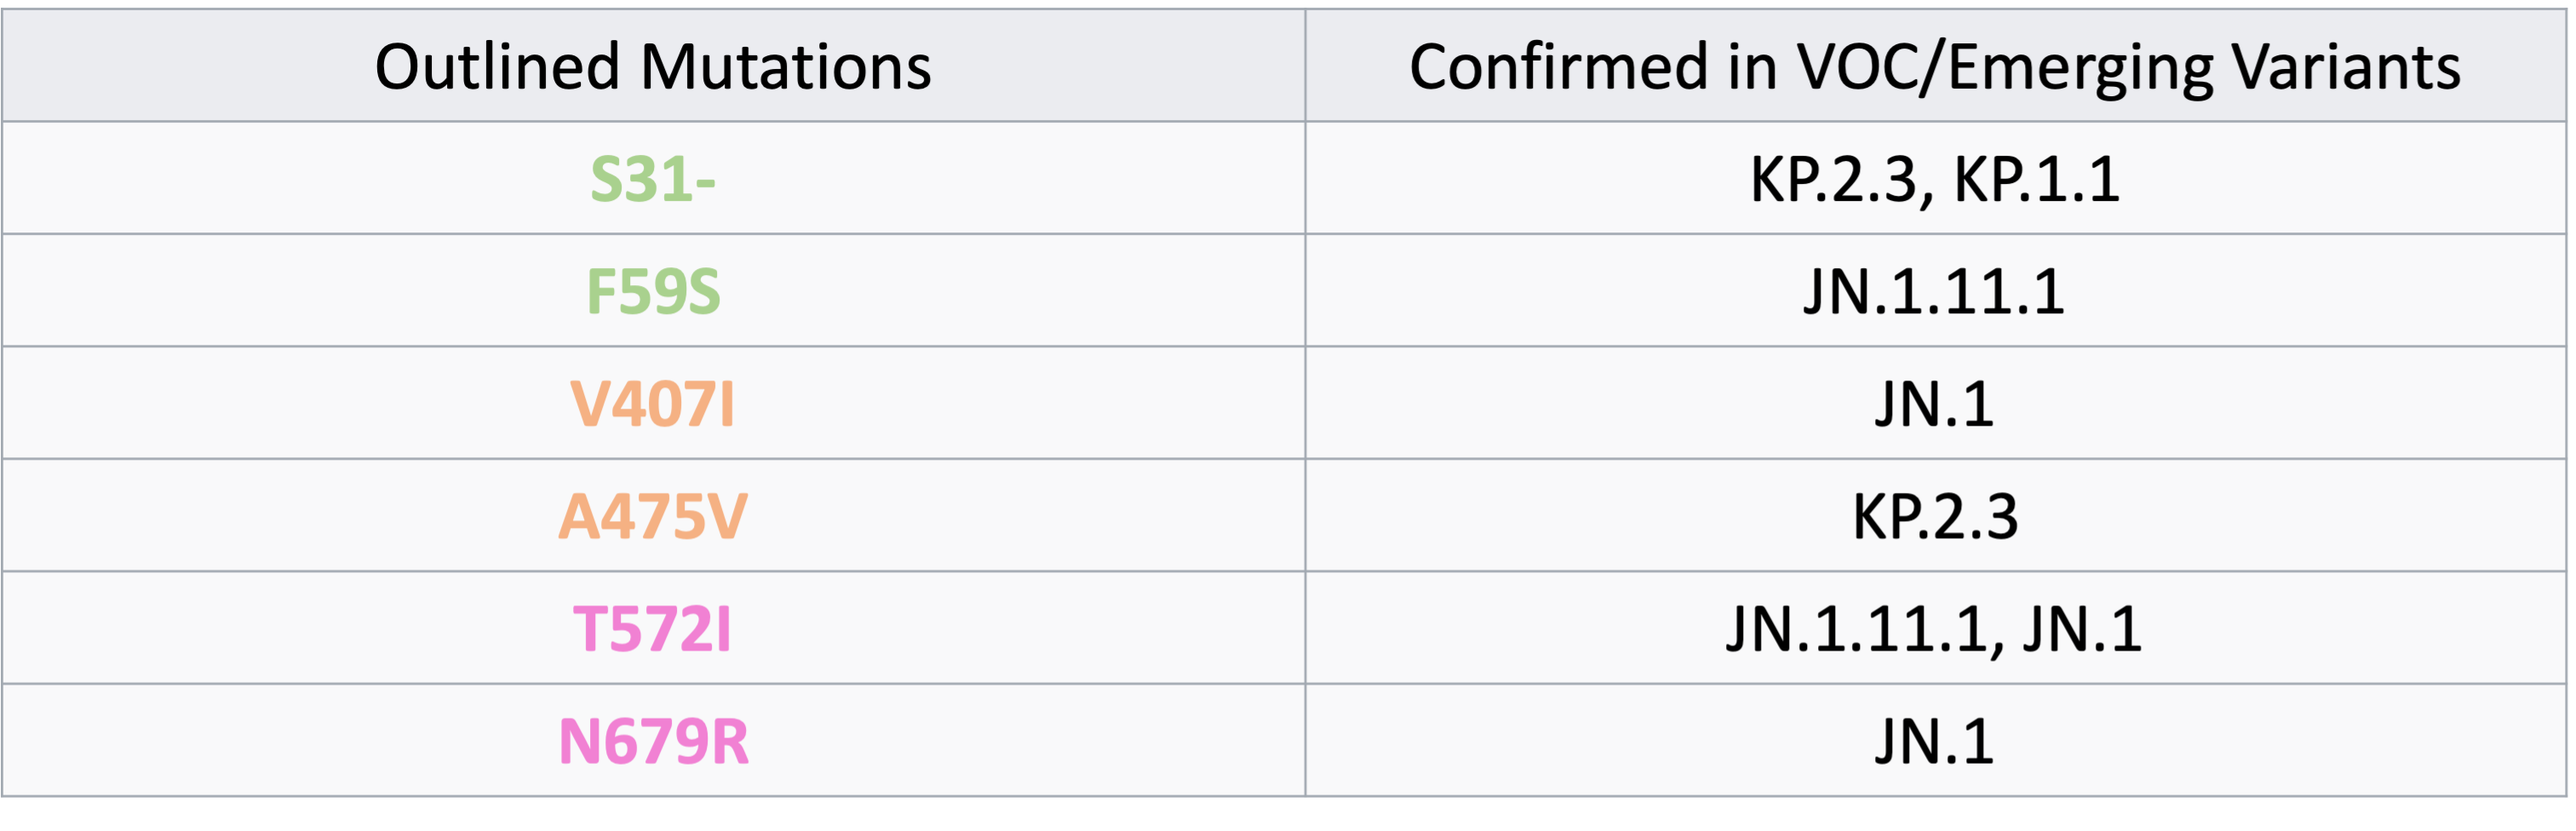
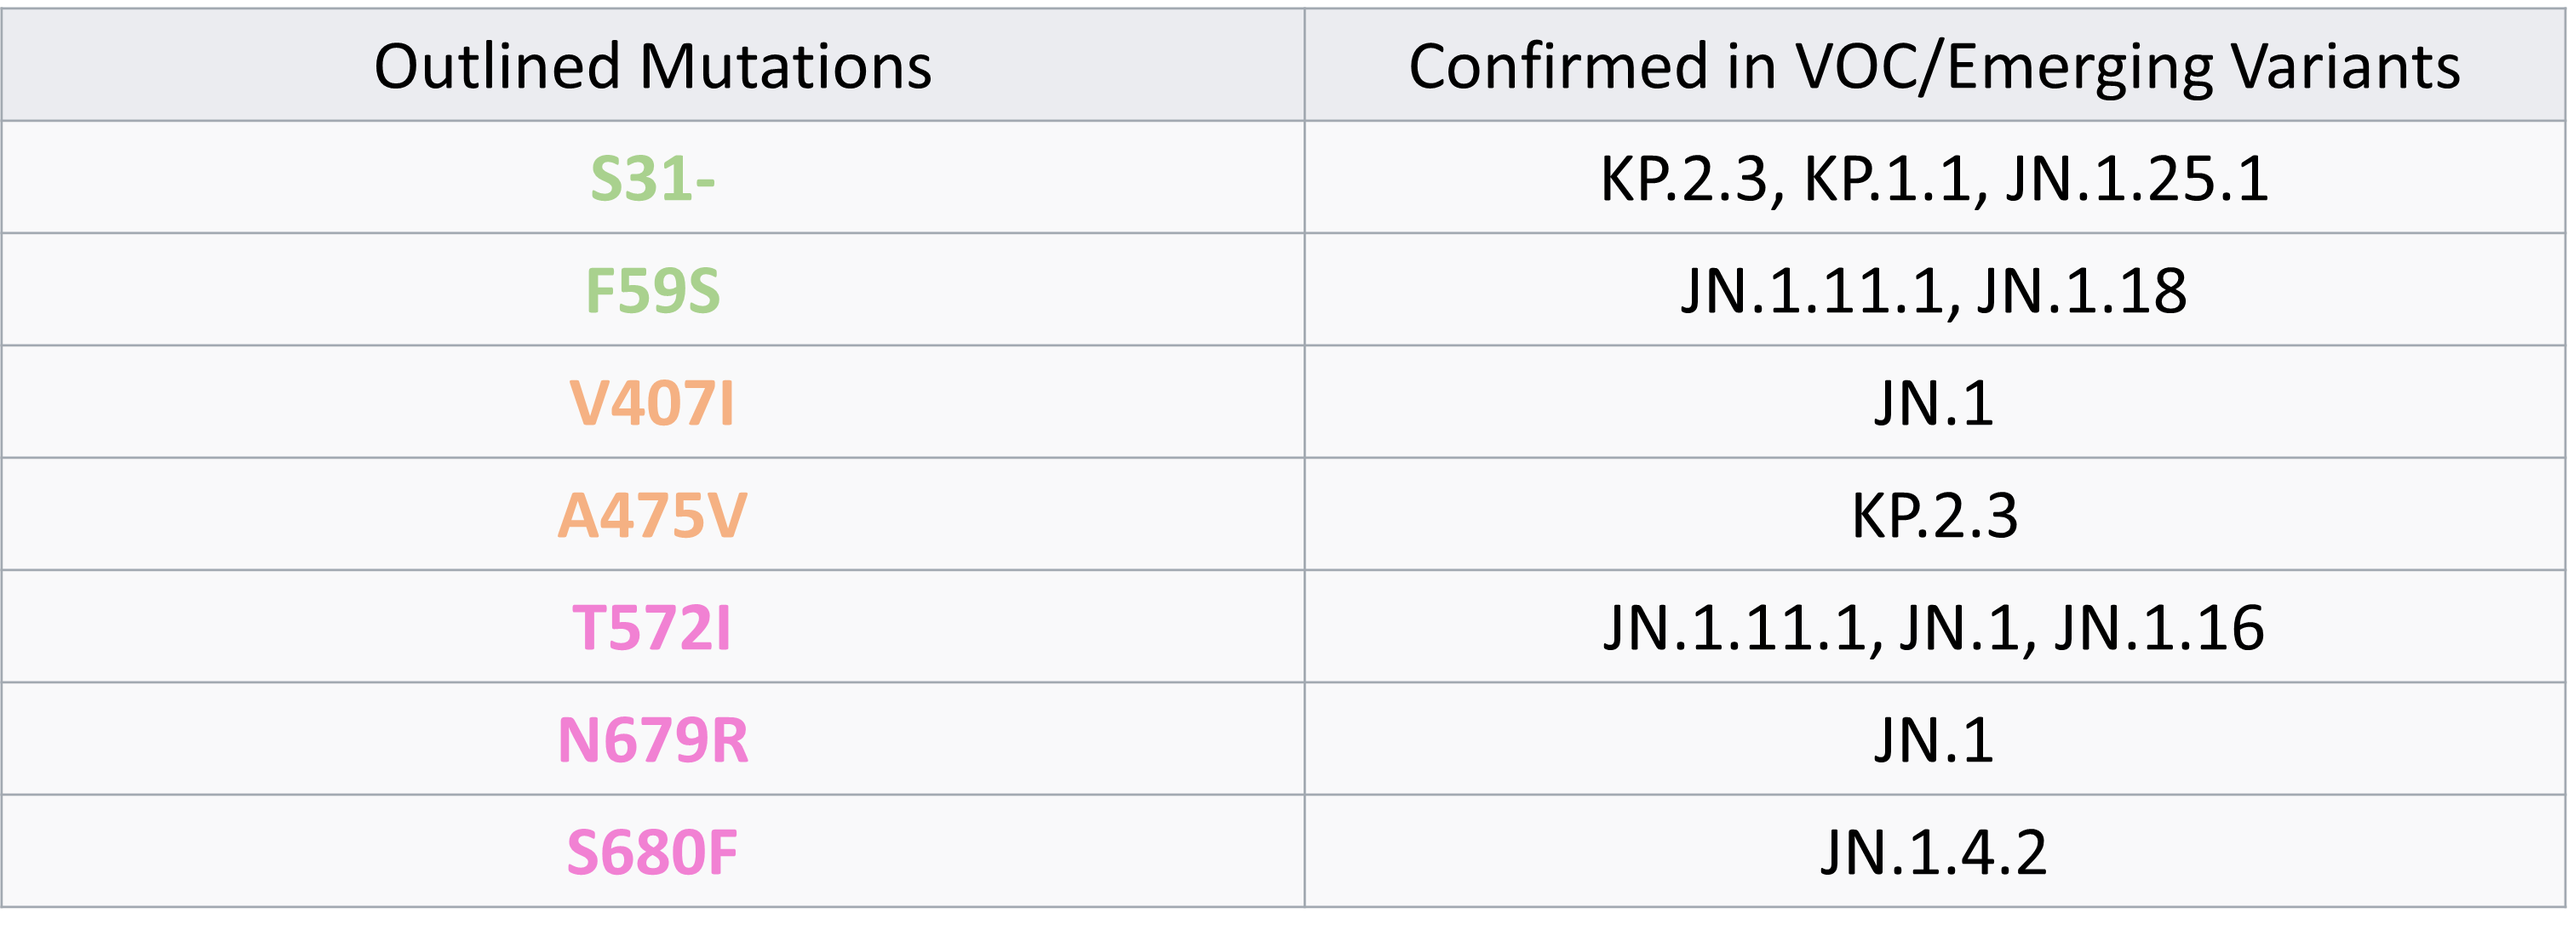
Updated variants information of leading mutations in 2024-05

diff --git a/_pages/Updates.md b/_pages/Updates.md
@@ -61,7 +61,7 @@ $(document).ready(function(){
   {% include figure.html path="assets/img/update_2405/2024-05.png" title="example image" class="img-fluid rounded z-depth-1" %}
   <br>
   <br>
-  <strong>2024.04.25-2024.05.23</strong>
+  <strong>2024.04.25-2024.05.30</strong>
   <hr>
   {% include figure.html path="assets/img/update_2405/confirmed_202405.png" title="example image" class="img-fluid rounded z-depth-1" %}
   <br>
